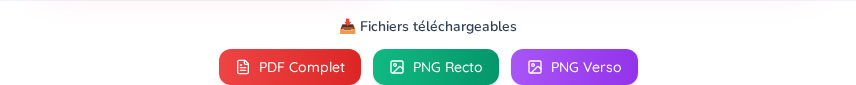
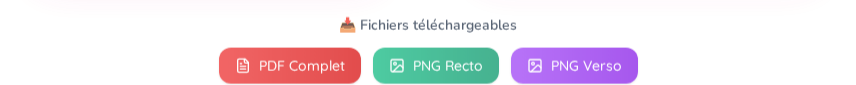
auto-commit for e84d3291-8189-4d27-8067-f66b03aab35b

Changed region(s): [[0.243, 0.5412, 0.7593, 1.0], [0.3949, 0.2118, 0.6075, 0.4]]

diff --git a/frontend/src/pages/CarteVisitePage.js b/frontend/src/pages/CarteVisitePage.js
@@ -299,7 +299,7 @@ export default function CarteVisitePage() {
                           </div>
                         ) : (
                           <div 
-                            className="text-[9px] text-slate-600 text-center mt-3 px-2 py-1 font-medium whitespace-nowrap"
+                            className="text-[7px] text-slate-500 text-center mt-5 px-2 py-1 font-medium whitespace-nowrap"
                             style={{ 
                               fontFamily: "'Quicksand', sans-serif",
                               textShadow: '0 0 15px rgba(255,255,255,1), 0 0 30px rgba(255,255,255,0.8)',
